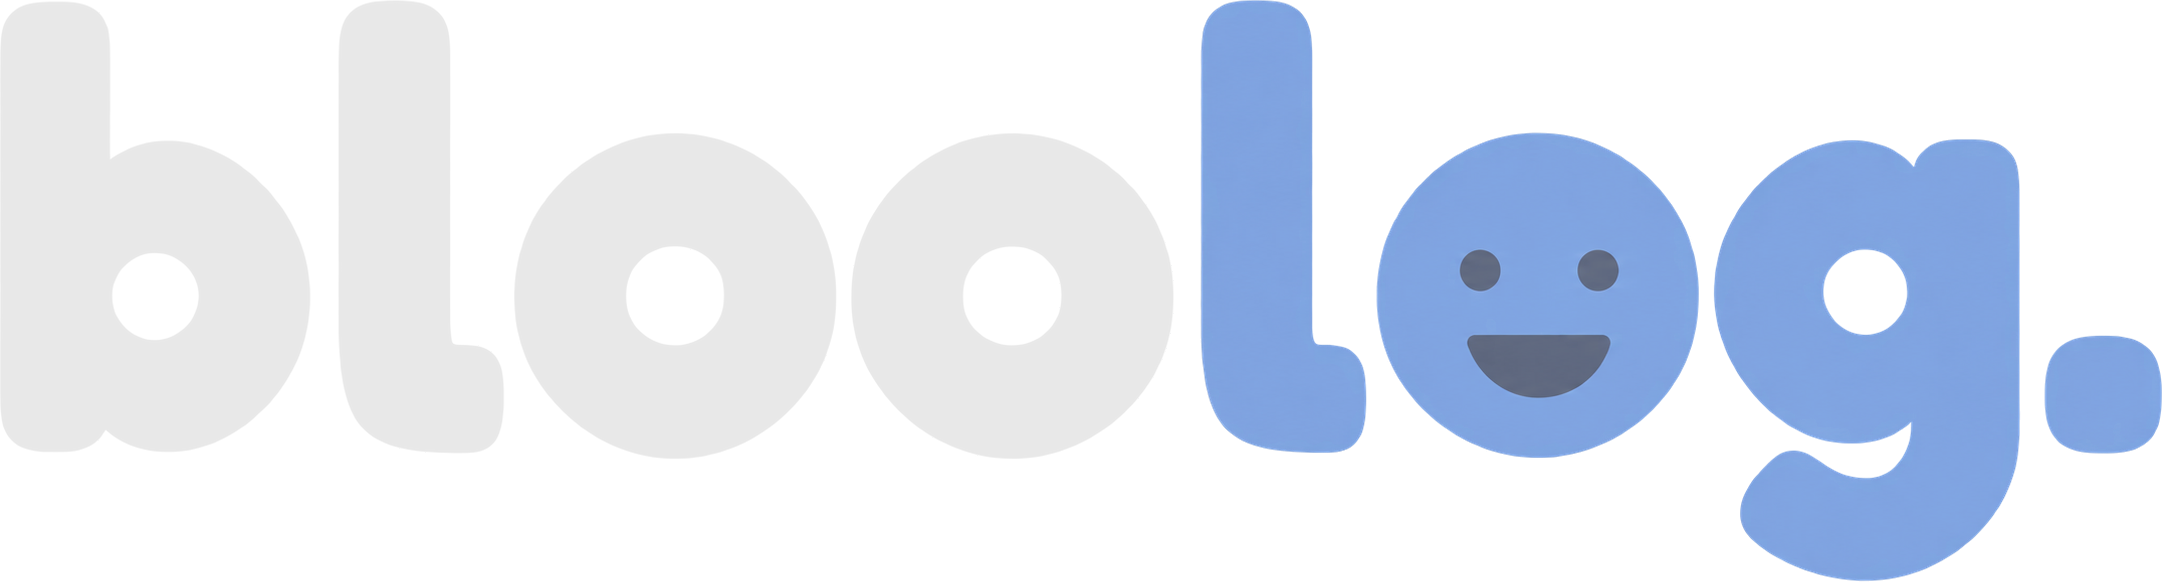
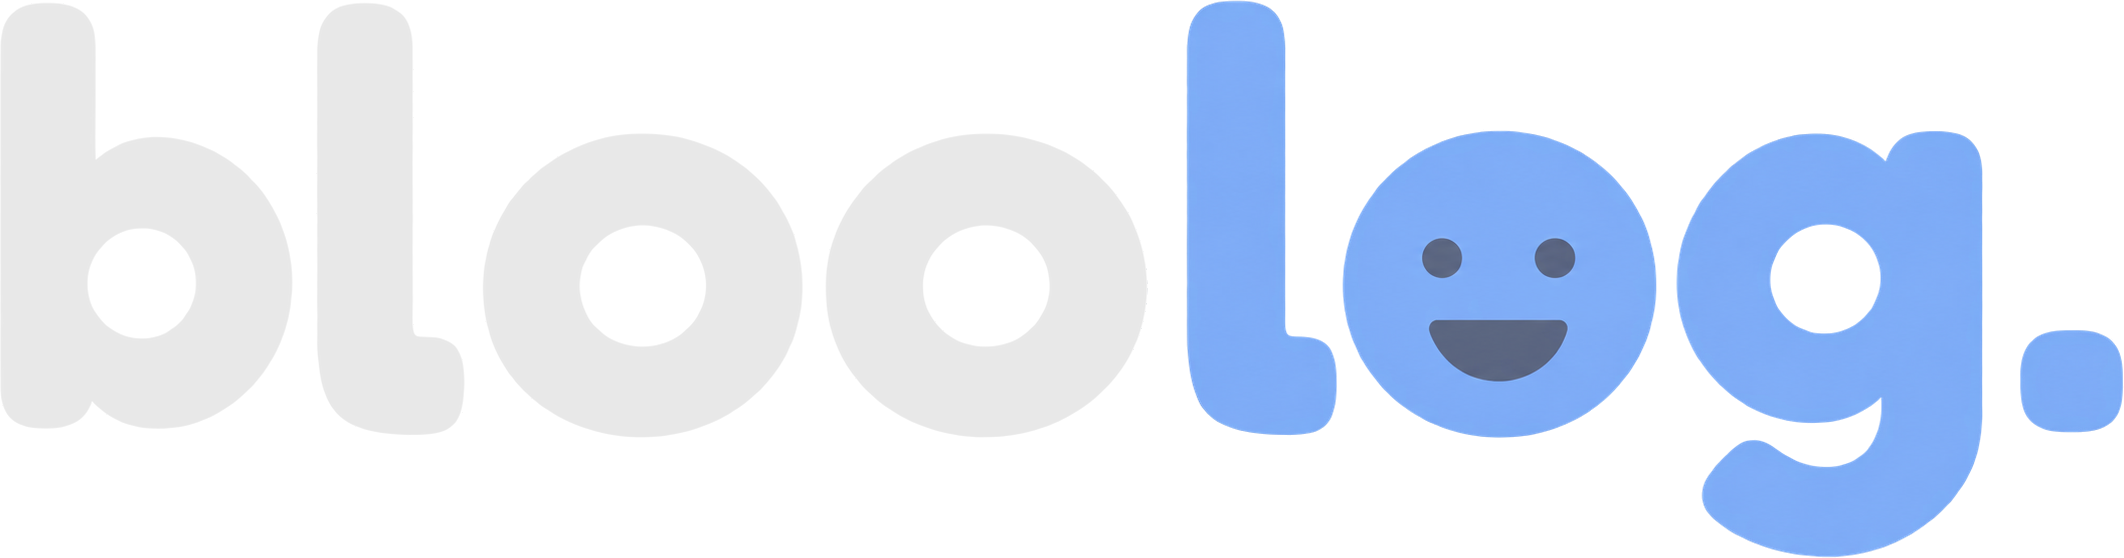
feat: add themed BlooLog wordmarks

diff --git a/tests/app-loading.test.ts b/tests/app-loading.test.ts
@@ -227,27 +227,41 @@ test('loading logo failure reaches retry UI without reporting readiness', () => 
   assert.equal(h.ready(), 0);
 });
 
-test('wordmark selects light and dark images, preserves its ratio and forwards image events', () => {
+test('wordmark follows accent and mode changes, preserves its ratio and forwards image events', () => {
+  const reference = readFileSync(new URL('../assets/ui/wordmark.png', import.meta.url));
+  const dimensions = { width: reference.readUInt32BE(16), height: reference.readUInt32BE(20) };
+  const settings = { themeAccent: 'blue' };
+  const theme = { mode: 'light' };
   const h = harness('../src/components/Wordmark.tsx', {
     'react-native': {
-      Image: Object.assign('Image', { resolveAssetSource: () => ({ width: 5024, height: 2268 }) }),
+      Image: Object.assign('Image', { resolveAssetSource: () => dimensions }),
     },
+    '../settings/SettingsProvider': { useSettings: () => ({ settings }) },
+    '../theme/AppThemeProvider': { useAppTheme: () => theme },
   });
   const onLoad = () => {};
   const onError = () => {};
-  for (const mode of ['light', 'dark']) {
-    const tree = h.render('Wordmark', { size: 45, mode, onLoad, onError });
-    assert.equal(
-      tree.props.source,
-      `../../assets/ui/${mode === 'dark' ? 'wordmark-dark.png' : 'wordmark.png'}`,
-    );
-    assert.equal(tree.props.style.height, 45);
-    assert.equal(tree.props.style.width, 45 * (5024 / 2268));
-    assert.equal(tree.props.onLoad, onLoad);
-    assert.equal(tree.props.onError, onError);
-    assert.equal(tree.props.accessibilityLabel, 'BlooLog 로고');
+  for (const accent of ['blue', 'purple', 'pink', 'green', 'yellow', 'grey']) {
+    settings.themeAccent = accent;
+    for (const mode of ['light', 'dark']) {
+      theme.mode = mode;
+      const tree = h.render('Wordmark', { size: 45, onLoad, onError });
+      const filename = `../../assets/ui/wordmark-${accent}-${mode}.png`;
+      assert.equal(tree.props.source, filename);
+      const png = readFileSync(new URL(filename.replace('../../', '../'), import.meta.url));
+      assert.equal(png.readUInt32BE(16), dimensions.width);
+      assert.equal(png.readUInt32BE(20), dimensions.height);
+      assert.equal(tree.props.style.height, 45);
+      assert.equal(tree.props.style.width, 45 * (dimensions.width / dimensions.height));
+      assert.equal(tree.props.onLoad, onLoad);
+      assert.equal(tree.props.onError, onError);
+      assert.equal(tree.props.accessibilityLabel, 'BlooLog 로고');
+    }
   }
-  assert.equal(h.render('Wordmark', {}).props.source, '../../assets/ui/wordmark.png');
+  assert.equal(
+    h.render('Wordmark', { mode: 'light' }).props.source,
+    '../../assets/ui/wordmark-grey-light.png',
+  );
 });
 
 test('loading artwork matches each platform native splash source and display size', () => {

diff --git a/src/components/Wordmark.tsx b/src/components/Wordmark.tsx
@@ -1,13 +1,37 @@
 import { Image, type ImageProps } from 'react-native';
+import { useSettings } from '../settings/SettingsProvider';
+import { useAppTheme } from '../theme/AppThemeProvider';
 const images = {
-  light: require('../../assets/ui/wordmark.png'),
-  dark: require('../../assets/ui/wordmark-dark.png'),
+  blue: {
+    light: require('../../assets/ui/wordmark-blue-light.png'),
+    dark: require('../../assets/ui/wordmark-blue-dark.png'),
+  },
+  purple: {
+    light: require('../../assets/ui/wordmark-purple-light.png'),
+    dark: require('../../assets/ui/wordmark-purple-dark.png'),
+  },
+  pink: {
+    light: require('../../assets/ui/wordmark-pink-light.png'),
+    dark: require('../../assets/ui/wordmark-pink-dark.png'),
+  },
+  green: {
+    light: require('../../assets/ui/wordmark-green-light.png'),
+    dark: require('../../assets/ui/wordmark-green-dark.png'),
+  },
+  yellow: {
+    light: require('../../assets/ui/wordmark-yellow-light.png'),
+    dark: require('../../assets/ui/wordmark-yellow-dark.png'),
+  },
+  grey: {
+    light: require('../../assets/ui/wordmark-grey-light.png'),
+    dark: require('../../assets/ui/wordmark-grey-dark.png'),
+  },
 };
-const dimensions = Image.resolveAssetSource(images.light);
+const dimensions = Image.resolveAssetSource(images.blue.light);
 
 export function Wordmark({
   size = 36,
-  mode = 'light',
+  mode,
   onLoad,
   onError,
 }: {
@@ -16,9 +40,11 @@ export function Wordmark({
   onLoad?: ImageProps['onLoad'];
   onError?: ImageProps['onError'];
 }) {
+  const { settings } = useSettings();
+  const theme = useAppTheme();
   return (
     <Image
-      source={images[mode]}
+      source={images[settings.themeAccent][mode ?? theme.mode]}
       accessibilityLabel="BlooLog 로고"
       accessible
       className="shrink-0"
